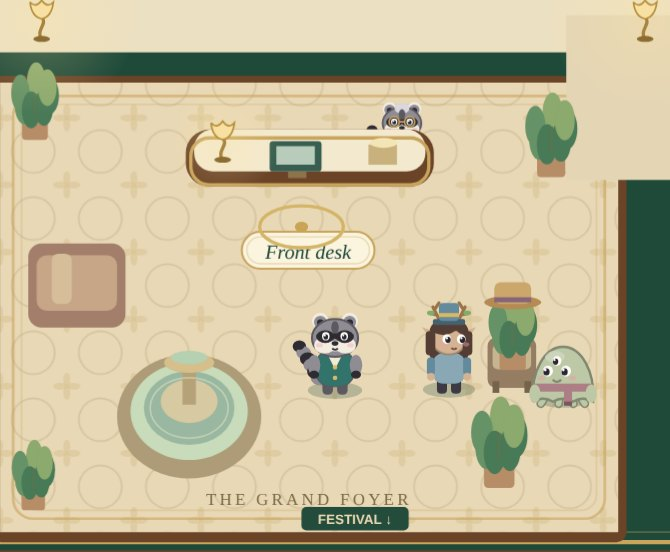
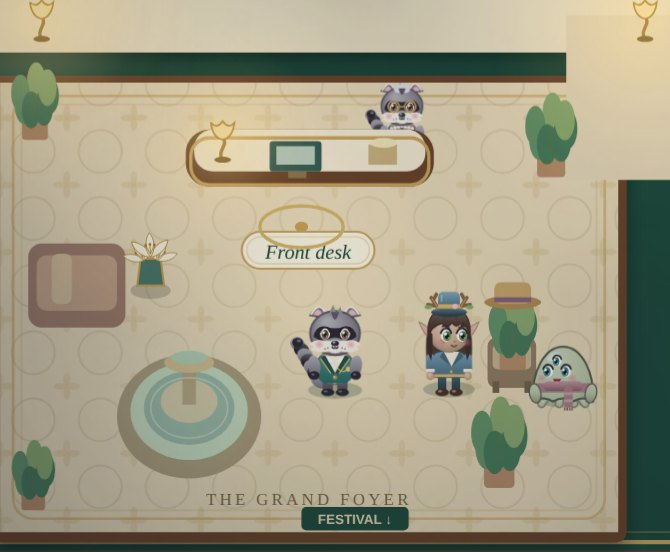
Character detail: before and after pictures and notes
Claude-Session: https://claude.ai/code/session_01MmNrVPvnMoei7EwGhQstRE

diff --git a/docs/cast.md b/docs/cast.md
@@ -1,8 +1,27 @@
 # Character kit
 
-Every character in Mapáchez Manor is drawn with code from a short recipe. There are no pictures, so the whole kit is about 33 KB inside, player picker included, `index.html`.
+Every character in Mapáchez Manor is drawn with code from a short recipe. There are no pictures, so the whole kit is about 52 KB inside, player picker included, `index.html`.
 
 ![Sample cast](screenshots/cast-sheet.jpg)
+
+## Detail (v2)
+
+![Before and after](screenshots/cast-detail-closeup.jpg)
+
+Version 2 of the kit adds:
+- soft top-lit shading and highlights on bodies, heads and clothes
+- coloured eyes with sparkles, lids and lashes, plus brows and a few mouth shapes
+- layered hair with bangs, side locks and shine
+- curly hair drawn as shaded curls
+- raccoon fur with a fluffy crown, cheek fluff, pink inner ears, a nose highlight and a shaded ringed tail
+- outfits with lapels, collars, gold trim, cuffs, knit ribs, shiny buttons and shoes
+- skirts with a trimmed hem
+- fauns with hooves
+- robots with brushed metal, glowing lamp eyes and a ticking dial
+
+A standing character is painted once into a small picture in memory, one with eyes open and one blinking, and that picture is reused every frame. Thirty standing characters now take about 0.4 ms a frame, compared with about 2.7 ms for the old simple shapes. Walking characters are still drawn live.
+
+**What size allows.** On the map, characters are about 40 to 45 screen pixels tall on a laptop and about 25 to 30 on a phone. At that size you see the shading, colour and overall shape, but the finest touches like lashes, sparkles and buttons are only a pixel or two. They show fully in close views such as the "Who are you?" picker and guest portraits. If the map ever needs more detail, the next step is to draw the characters a bit larger on the map, which is a layout choice and not a file-size cost.
 
 ## Who is what
 
